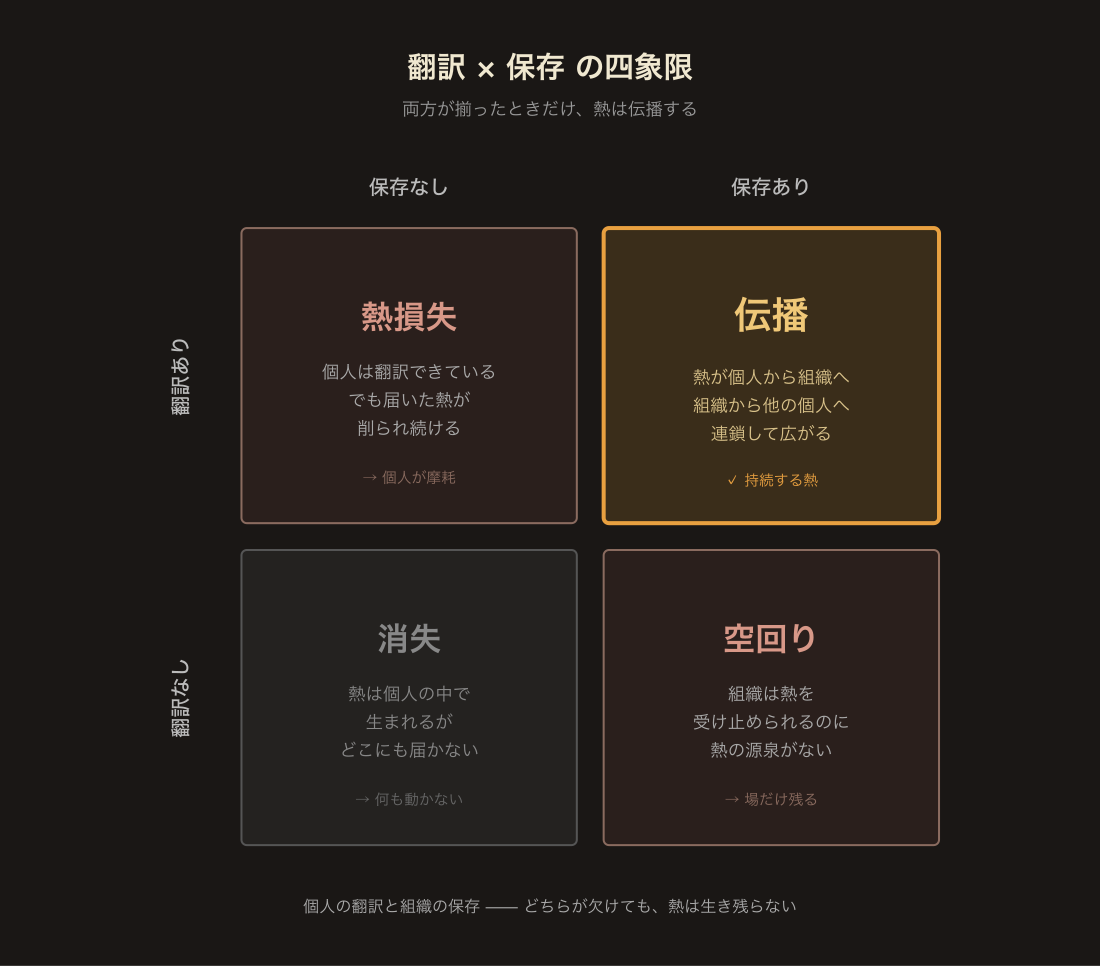
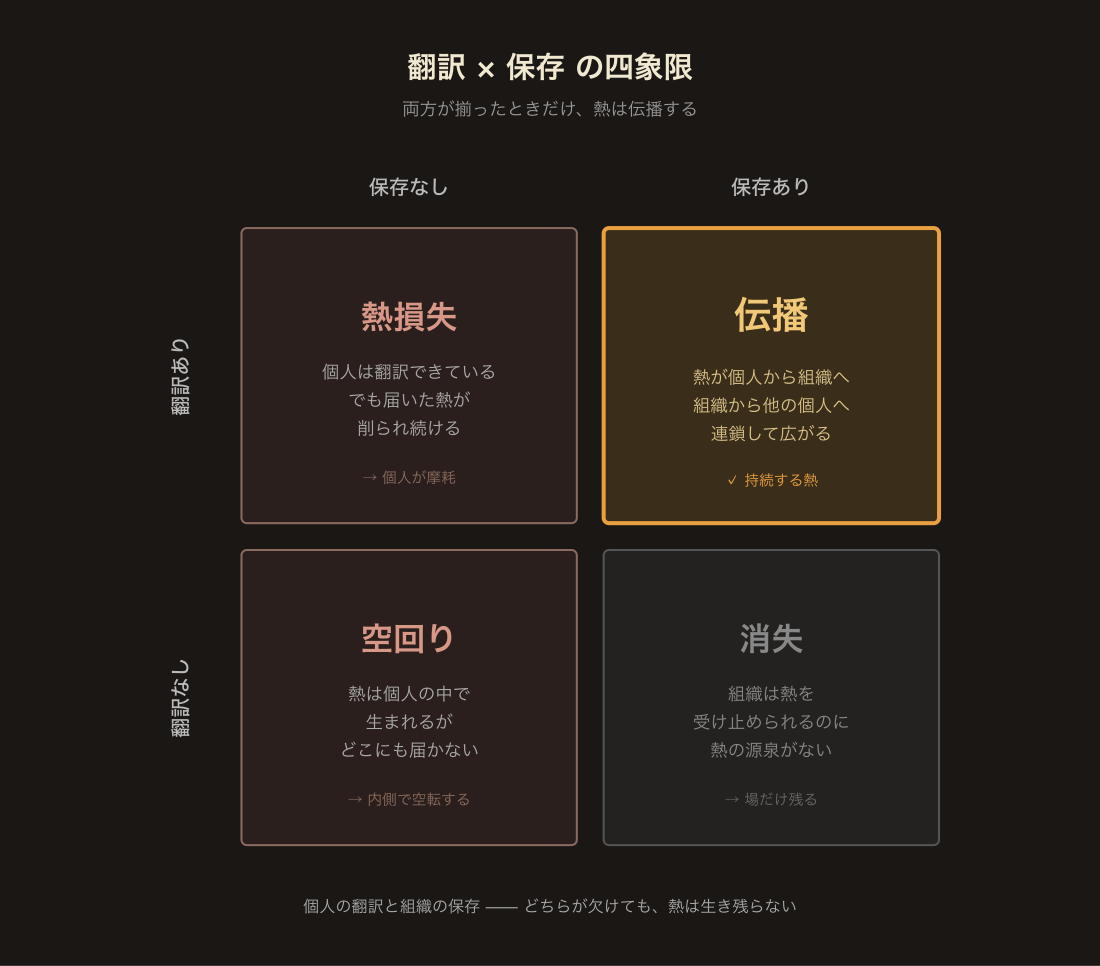
feat(psychological-os): English images for dev.to + matrix label swap (消失 ↔ 空回り) (#89)
* feat(psychological-os): English images for dev.to + matrix label swap (消失 ↔ 空回り)

### 1. Matrix label swap (JP + EN)

ch4 §4 matrix の bottom-left/bottom-right label を swap:
- Before: 消失 (bottom-left, 翻訳なし×保存なし) / 空回り (bottom-right, 翻訳なし×保存あり)
- After:  空回り (bottom-left) / 消失 (bottom-right)

description は元のまま。元々 description が semantic に label と逆
(「熱は個人の中で生まれるが届かない」は空回り / 「源泉がない→場だけ残る」
は消失) だった user 指摘の通り。

JP book 本文 ch4.md §4 の 3-bullet も 4-cell に拡張して matrix と整合
させた。EN dev.to ch4 §4 本文も同様。

### 2. English images for dev.to

日本語ラベルの画像 4 枚を英訳版 SVG として新規生成:

- ch2-section-7-vector-alignment-en.png (Vectors aligned / misaligned の
  decay curve 比較; Gamma 生成 JP 版を SVG で再現)
- ch4-section-3-layer-converter-en.png (Without converter / With converter)
- ch4-section-4-matrix-en.png (Translation × Preservation 四象限、
  swap 済み label)
- system-map-en.png (epilogue 冒頭の全体図)

dev.to 投稿 (ch2, ch4, epilogue) の画像参照を -en 版に切替。

JP の元画像はそのまま残す (Japanese book で使用中)。

* fix(psychological-os): ch2 vector-alignment-en — flatter low-decay curve + annotation arrow

user 指摘を反映:
1. 左 panel の curve が急すぎて「減衰率が高く見える」と認識された
   → 冒頭〜中盤をほぼ水平に保ち、末尾だけ軽く下がる曲線に修正
2. JP 版にあった annotation arrow (減衰率小 → flat curve を指す) が欠けていた
   → "Low decay rate / heat stays flat" の annotation arrow を追加
   → 対称で右 panel にも "High decay rate / heat drops fast" の arrow 追加

---------

diff --git a/docs/blog-en-devto-psyos-ch4.md b/docs/blog-en-devto-psyos-ch4.md
@@ -84,7 +84,7 @@ A converter needs two qualities.
 
 A converter with both qualities is not middle management and not a technical interpreter. They are **a specialist who works across the aesthetics of multiple layers and keeps reading history.**
 
-![Without a converter, decisions arrive unconverted and extinguish heat. With a converter, heat crosses layers.](https://raw.githubusercontent.com/machuz/eis/main/books/psychological-os/images/ch4-section-3-layer-converter.png)
+![Without a converter, decisions arrive unconverted and extinguish heat. With a converter, heat crosses layers.](https://raw.githubusercontent.com/machuz/eis/main/books/psychological-os/images/ch4-section-3-layer-converter-en.png)
 
 In organizations with conversion, correct decisions in one layer don't extinguish fire in others. In fact, **correct decisions can ignite heat in other layers.** **In organizations without converters, even correct decisions extinguish heat.** **The total energy of the organization isn't determined by the correctness of decisions — it's determined by the density of conversion.** An organization without converters loses heat, however strong its individuals.
 
@@ -106,13 +106,14 @@ An enclosure with these three conditions is **a space that preserves heat**. The
 
 ## 4. The condition for mesh — when they align
 
-Translation (individual) and preservation (organization) don't hold alone. Each side's absence produces its own failure mode.
+Translation (individual) and preservation (organization) don't hold alone. The four quadrants below show what happens when each combination is missing. Heat only survives in **the top-right cell: both present**.
 
-- **No translation** → heat doesn't reach the organization and burns out within the individual (**disappearance**)
-- **No preservation** → heat that reaches gets eroded continuously, and the individual wears down (**heat loss**)
-- **Both present** → heat propagates from individual into organization, from organization into other individuals, in cascade
+- **Translation × no preservation** → heat that arrives keeps getting eroded; the individual wears down (**heat loss**)
+- **No translation × no preservation** → heat is born inside the individual but has no outlet; it spins inward (**hollow motion**)
+- **No translation × preservation** → the organization is ready but no heat reaches it; only the space remains (**disappearance**)
+- **Both present** → heat propagates from individual into organization, from organization into other individuals, in cascade (**propagation**)
 
-![Translation × Preservation — the four quadrants: propagation (both present) / heat loss (no preservation) / hollow motion (no translation) / disappearance (neither)](https://raw.githubusercontent.com/machuz/eis/main/books/psychological-os/images/ch4-section-4-matrix.png)
+![Translation × Preservation — four quadrants: propagation (both) / heat loss (translation only) / hollow motion (neither) / disappearance (preservation only)](https://raw.githubusercontent.com/machuz/eis/main/books/psychological-os/images/ch4-section-4-matrix-en.png)
 
 When translation exists but preservation doesn't, the translated heat gets poured into a space that grinds it down, and the individual is worn out. When preservation exists but translation doesn't, the organization is ready but no translated source of heat reaches it — the space exists but no heat flows through it.
 

diff --git a/docs/blog-en-devto-psyos-epilogue.md b/docs/blog-en-devto-psyos-epilogue.md
@@ -13,7 +13,7 @@ What follows is less theory, more **how I got here**.
 
 Before that, here's the full structure of the book, in one image.
 
-![Psychological OS — full structure: individual side (Psychological OS → attachment → heat → purity/vector → translation) and organization side (converter → controlled chaos → preservation → alignment), connected through translation and propagation](https://raw.githubusercontent.com/machuz/eis/main/books/psychological-os/images/system-map.png)
+![Psychological OS — full structure: individual side (Psychological OS → attachment → heat → purity/vector → translation) and organization side (converter → controlled chaos → preservation → alignment), connected through translation and propagation](https://raw.githubusercontent.com/machuz/eis/main/books/psychological-os/images/system-map-en.png)
 
 Left: the individual side (chapters 0–2) — Psychological OS as the base layer, attachment as the source that sustains heat, purity and vector determining heat's quality, translation as the way heat leaves the individual. Right: the organization side (chapters 3–4) — converters and controlled chaos building the space of preservation, alignment as dynamic equilibrium. Only when they mesh does heat propagate, lighting the Psychological OS of other individuals.
 

diff --git a/docs/blog-en-devto-psyos-ch2.md b/docs/blog-en-devto-psyos-ch2.md
@@ -155,7 +155,7 @@ The four dimensions above are the **quantitative** side of heat. Here I turn to 
 
 External pressure by default decays heat. Requests, deadlines, routine — these replace time that could run on inner pressure with time driven by outer pressure, eroding purity. The question is **the difference in decay rate**.
 
-![Vector alignment reduces decay rate and extends heat persistence; misalignment raises decay and shortens persistence](https://raw.githubusercontent.com/machuz/eis/main/books/psychological-os/images/ch2-section-7-vector-alignment.png)
+![Vector alignment lowers the decay rate, heat persists longer; misalignment raises decay, heat fades fast](https://raw.githubusercontent.com/machuz/eis/main/books/psychological-os/images/ch2-section-7-vector-alignment-en.png)
 
 I call it **the state of vectors being aligned**. When the individual's direction and the external pressure's direction line up, **the decay rate on the same external pressure drops significantly**. When they don't line up, the same pressure erodes heat at a high rate.
 
